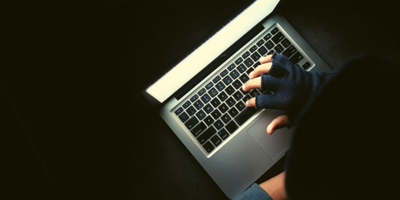
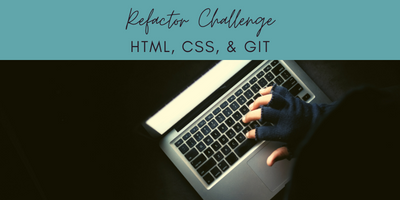
Altered image sizes again. Best effort.

diff --git a/assets/css/style.css b/assets/css/style.css
@@ -11,18 +11,19 @@ html {
         display: flex;
         margin: 20px 60px 20px 60px;
         flex-direction: row;
-        flex-wrap: no-wrap;
     }
     .container-2 {
         display: flex;
         margin: 20px 60px 20px 60px;
         flex-direction: row;
+        flex-wrap: wrap;
     }
     }
     .container-3 {
         display: flex;
         margin: 20px 60px 20px 60px;
         flex-direction: row;
+        flex-wrap: wrap;
 
     }
     .container-4 {
@@ -81,15 +82,6 @@ nav a:hover {
 
 #box-bigwork {
     height: 100px;
-}
-
-#box-bigwork header {
-    width: 400px;
-    height: 100px;
-    text-align: center;
-    font-family: cursive;
-    font-size: larger;
-    color: #291B25;
 }
 
 #box-ampic {

diff --git a/index.html b/index.html
@@ -34,9 +34,8 @@
             <img src="assets/images/Work.png" alt="title card for Work section" />
         </div>
         <div id="box-bigwork">
-            <header>Refactor Challenge</header>
             <a href="https://jlmayo.github.io/challenge-01/">
-            <img src="assets/images/Challenge-01.png" alt="stock photo of a laptop" />
+            <img src="assets/images/Refactor Challenge.png" alt="stock photo of a laptop" />
             </a>
         </div>
     </div>
